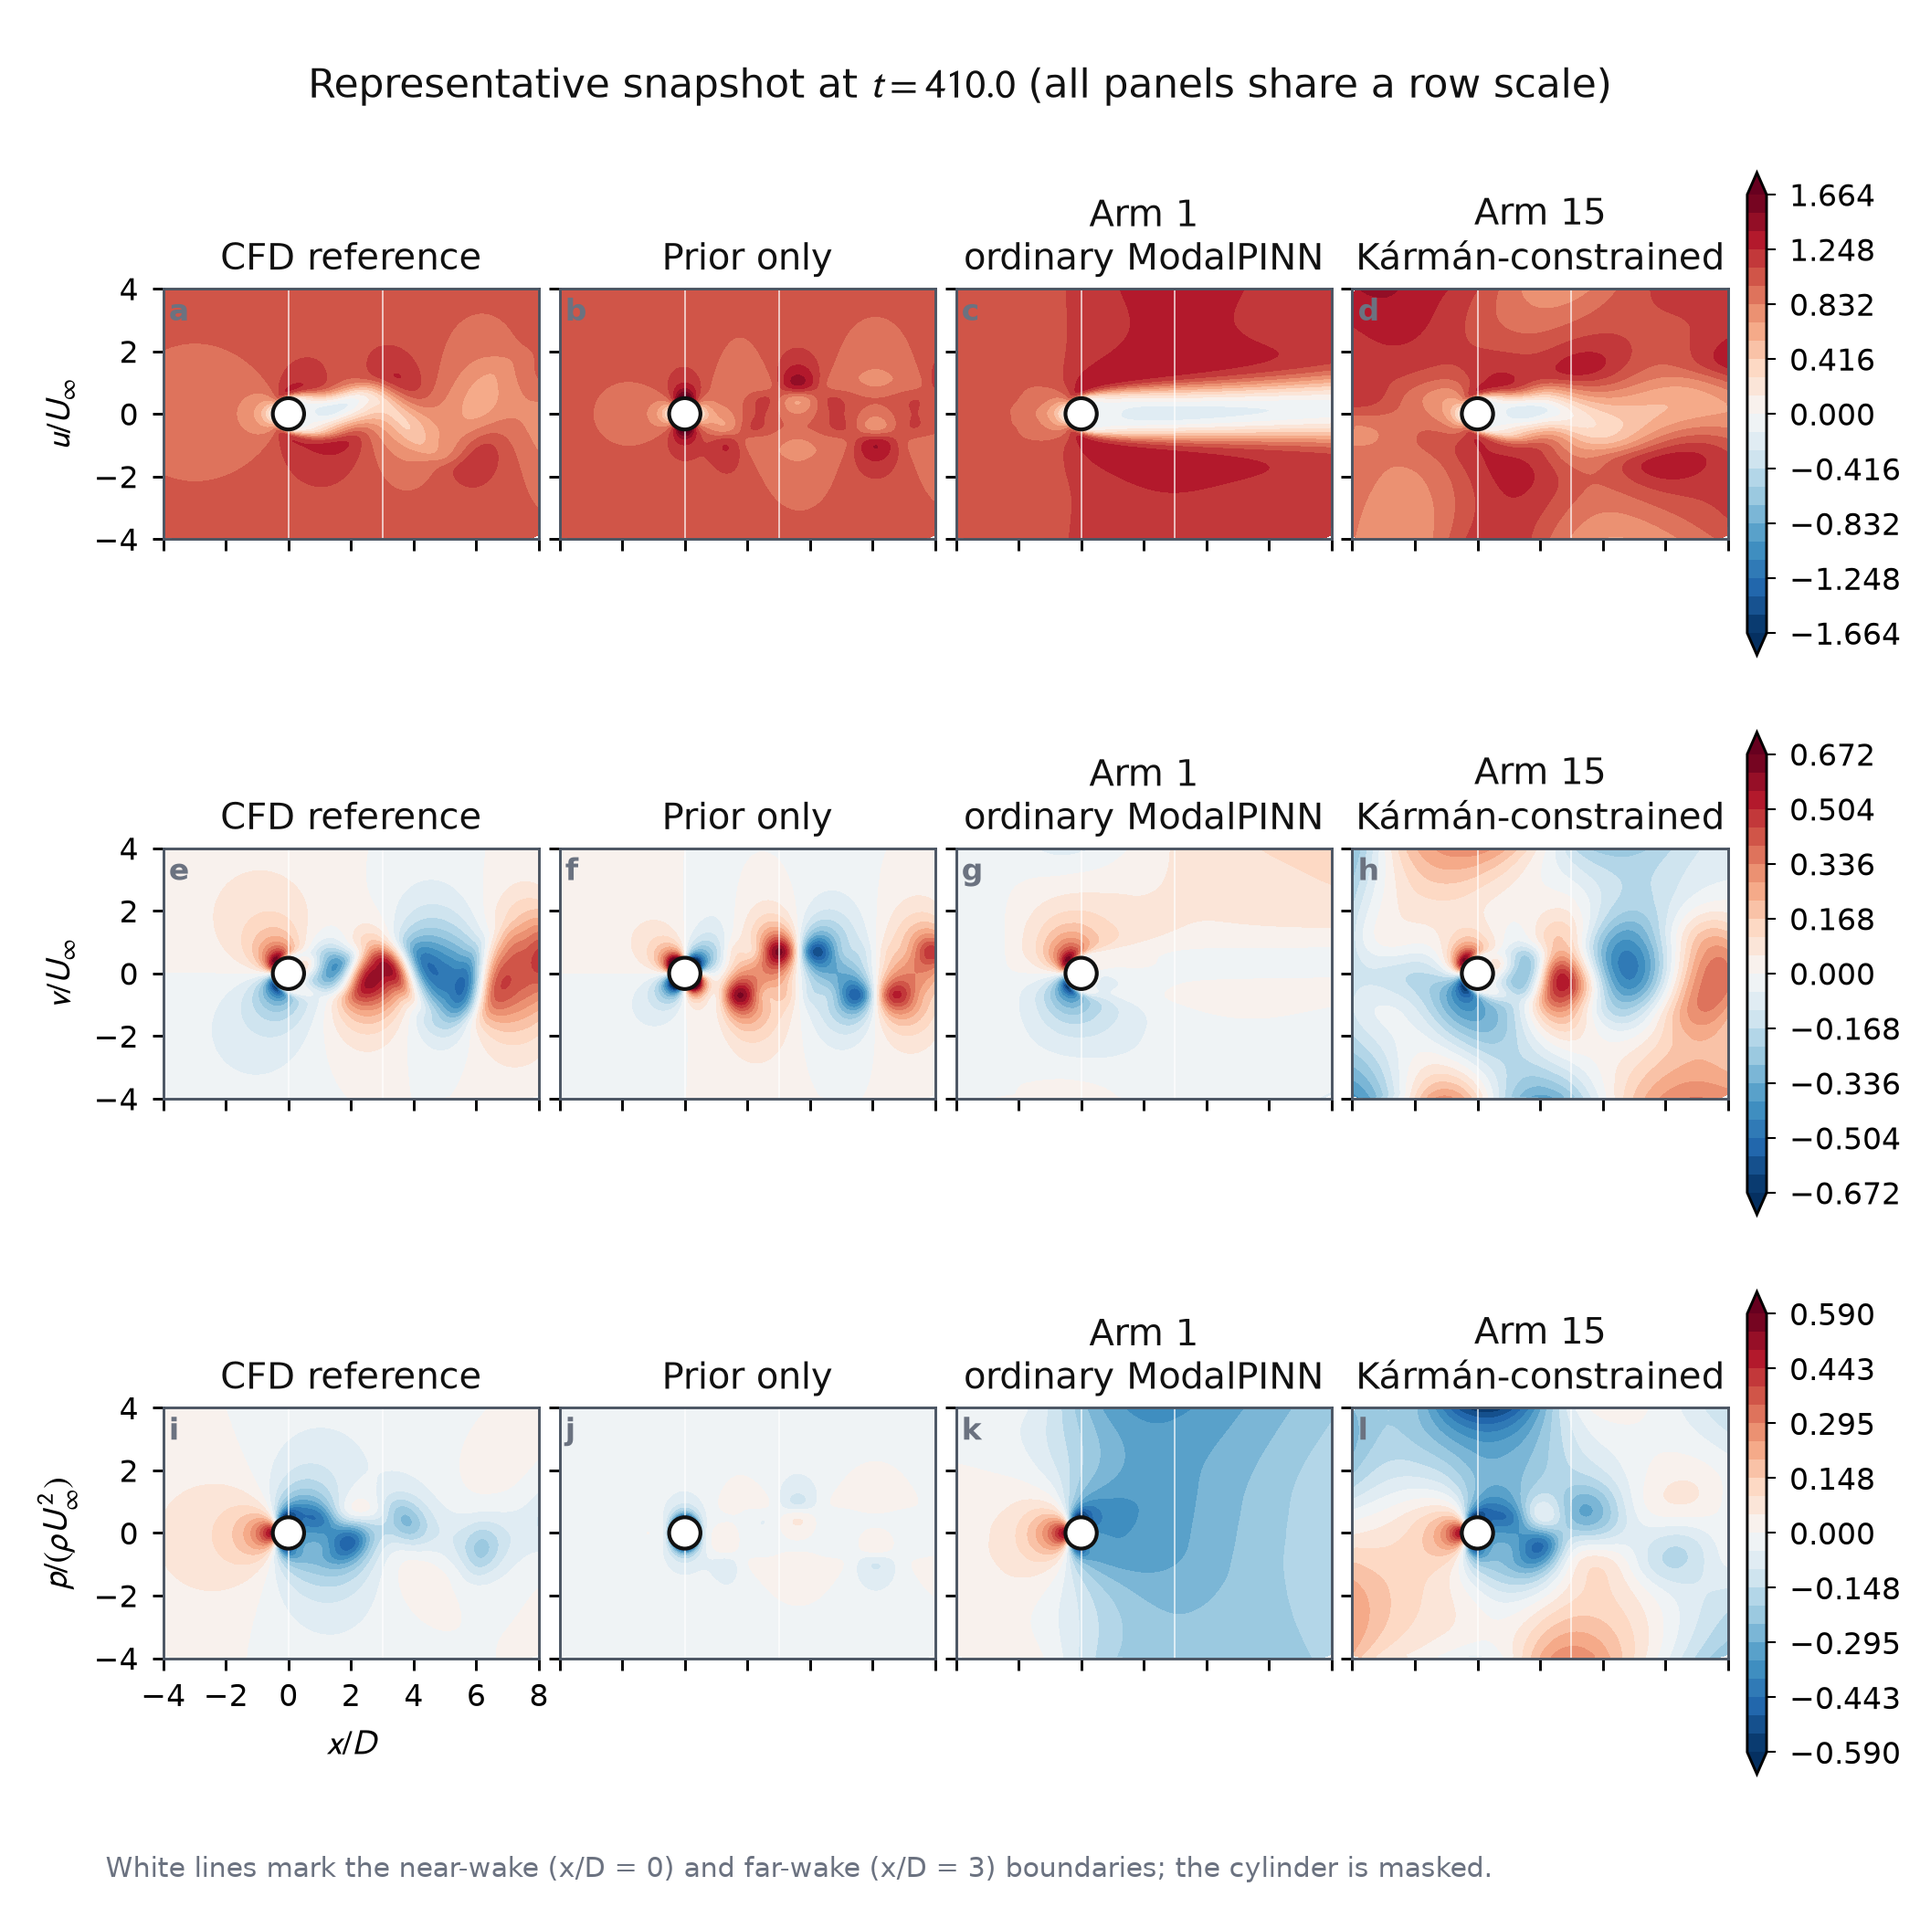
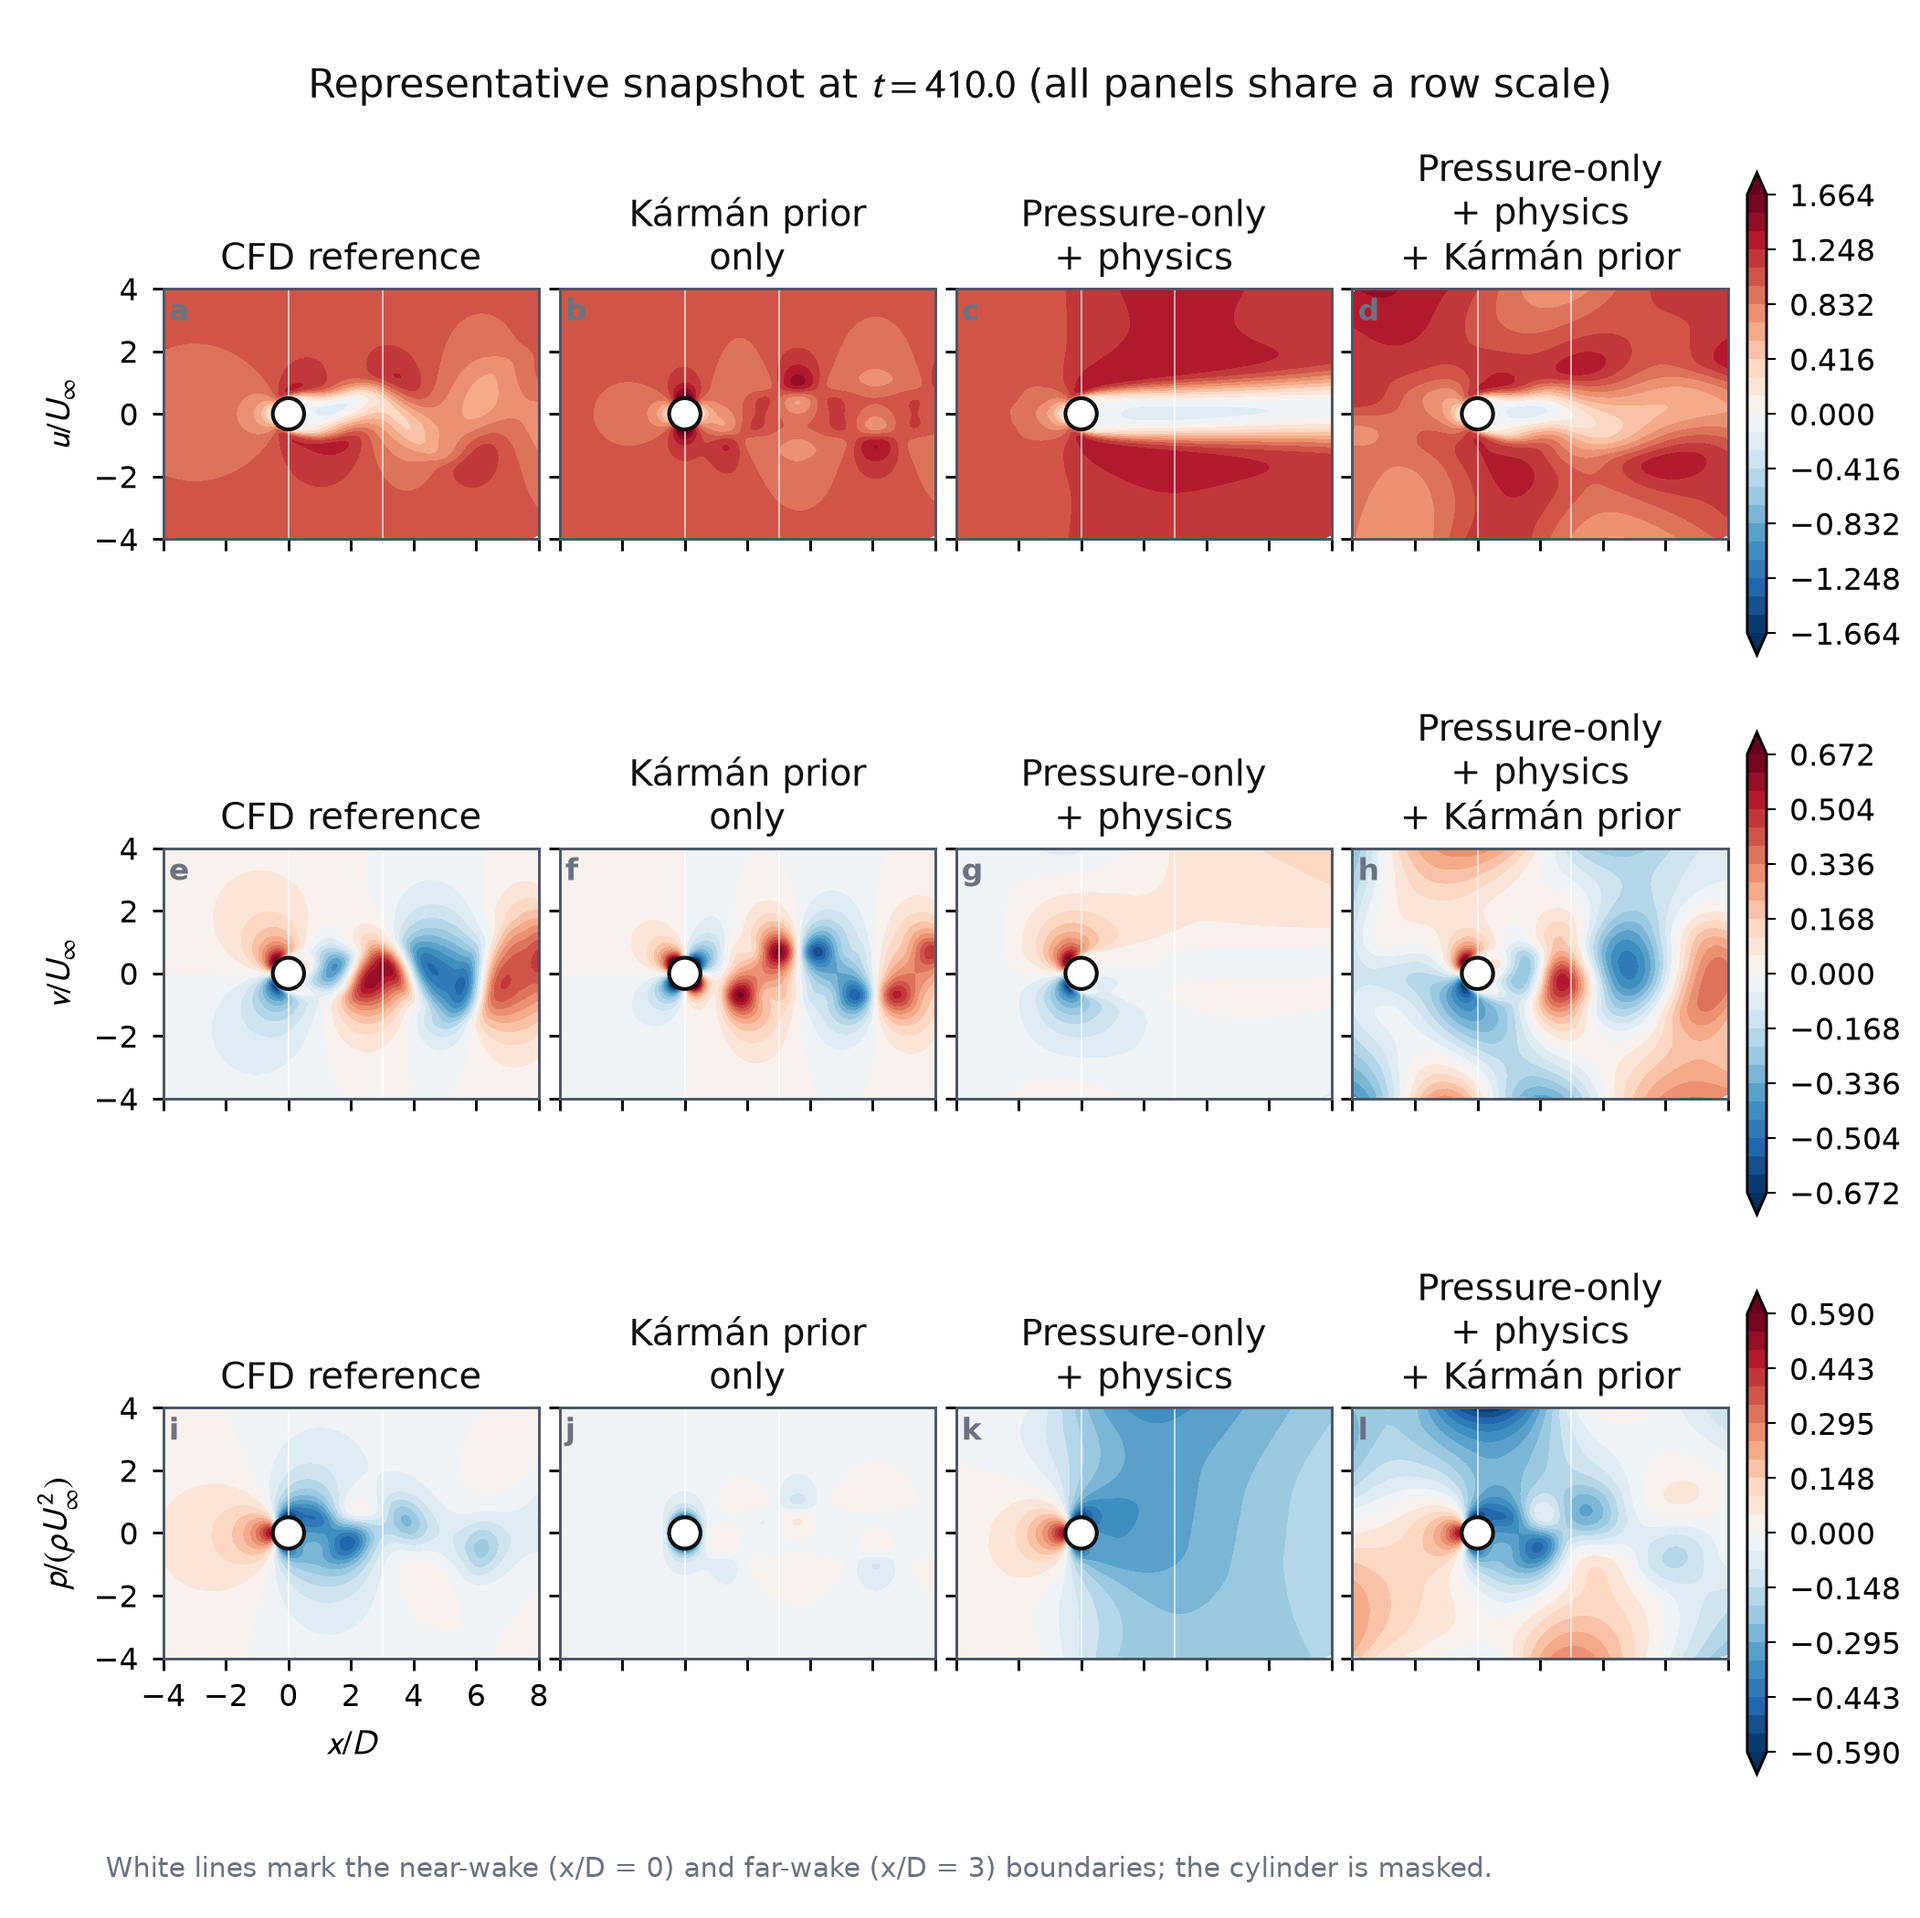
use descriptive method labels in A04 figure

diff --git a/modes_experiment/fresh_analysis/scripts/figures/fig01_prior_attribution_fields.py b/modes_experiment/fresh_analysis/scripts/figures/fig01_prior_attribution_fields.py
@@ -64,8 +64,9 @@ fields = {
     "p": [SNAP["p_true"], p_prior, SNAP["arm1_baseline_p"],
           SNAP["arm15_v1_radial_trust_p"]],
 }
-titles = ["CFD reference", "Prior only", "Arm 1\nordinary ModalPINN",
-          "Arm 15\nKármán-constrained"]
+titles = ["CFD reference", "Kármán prior\nonly",
+          "Pressure-only\n+ physics",
+          "Pressure-only\n+ physics\n+ Kármán prior"]
 row_labels = {"u": r"$u/U_\infty$", "v": r"$v/U_\infty$",
               "p": r"$p/(\rho U_\infty^2)$"}
 
